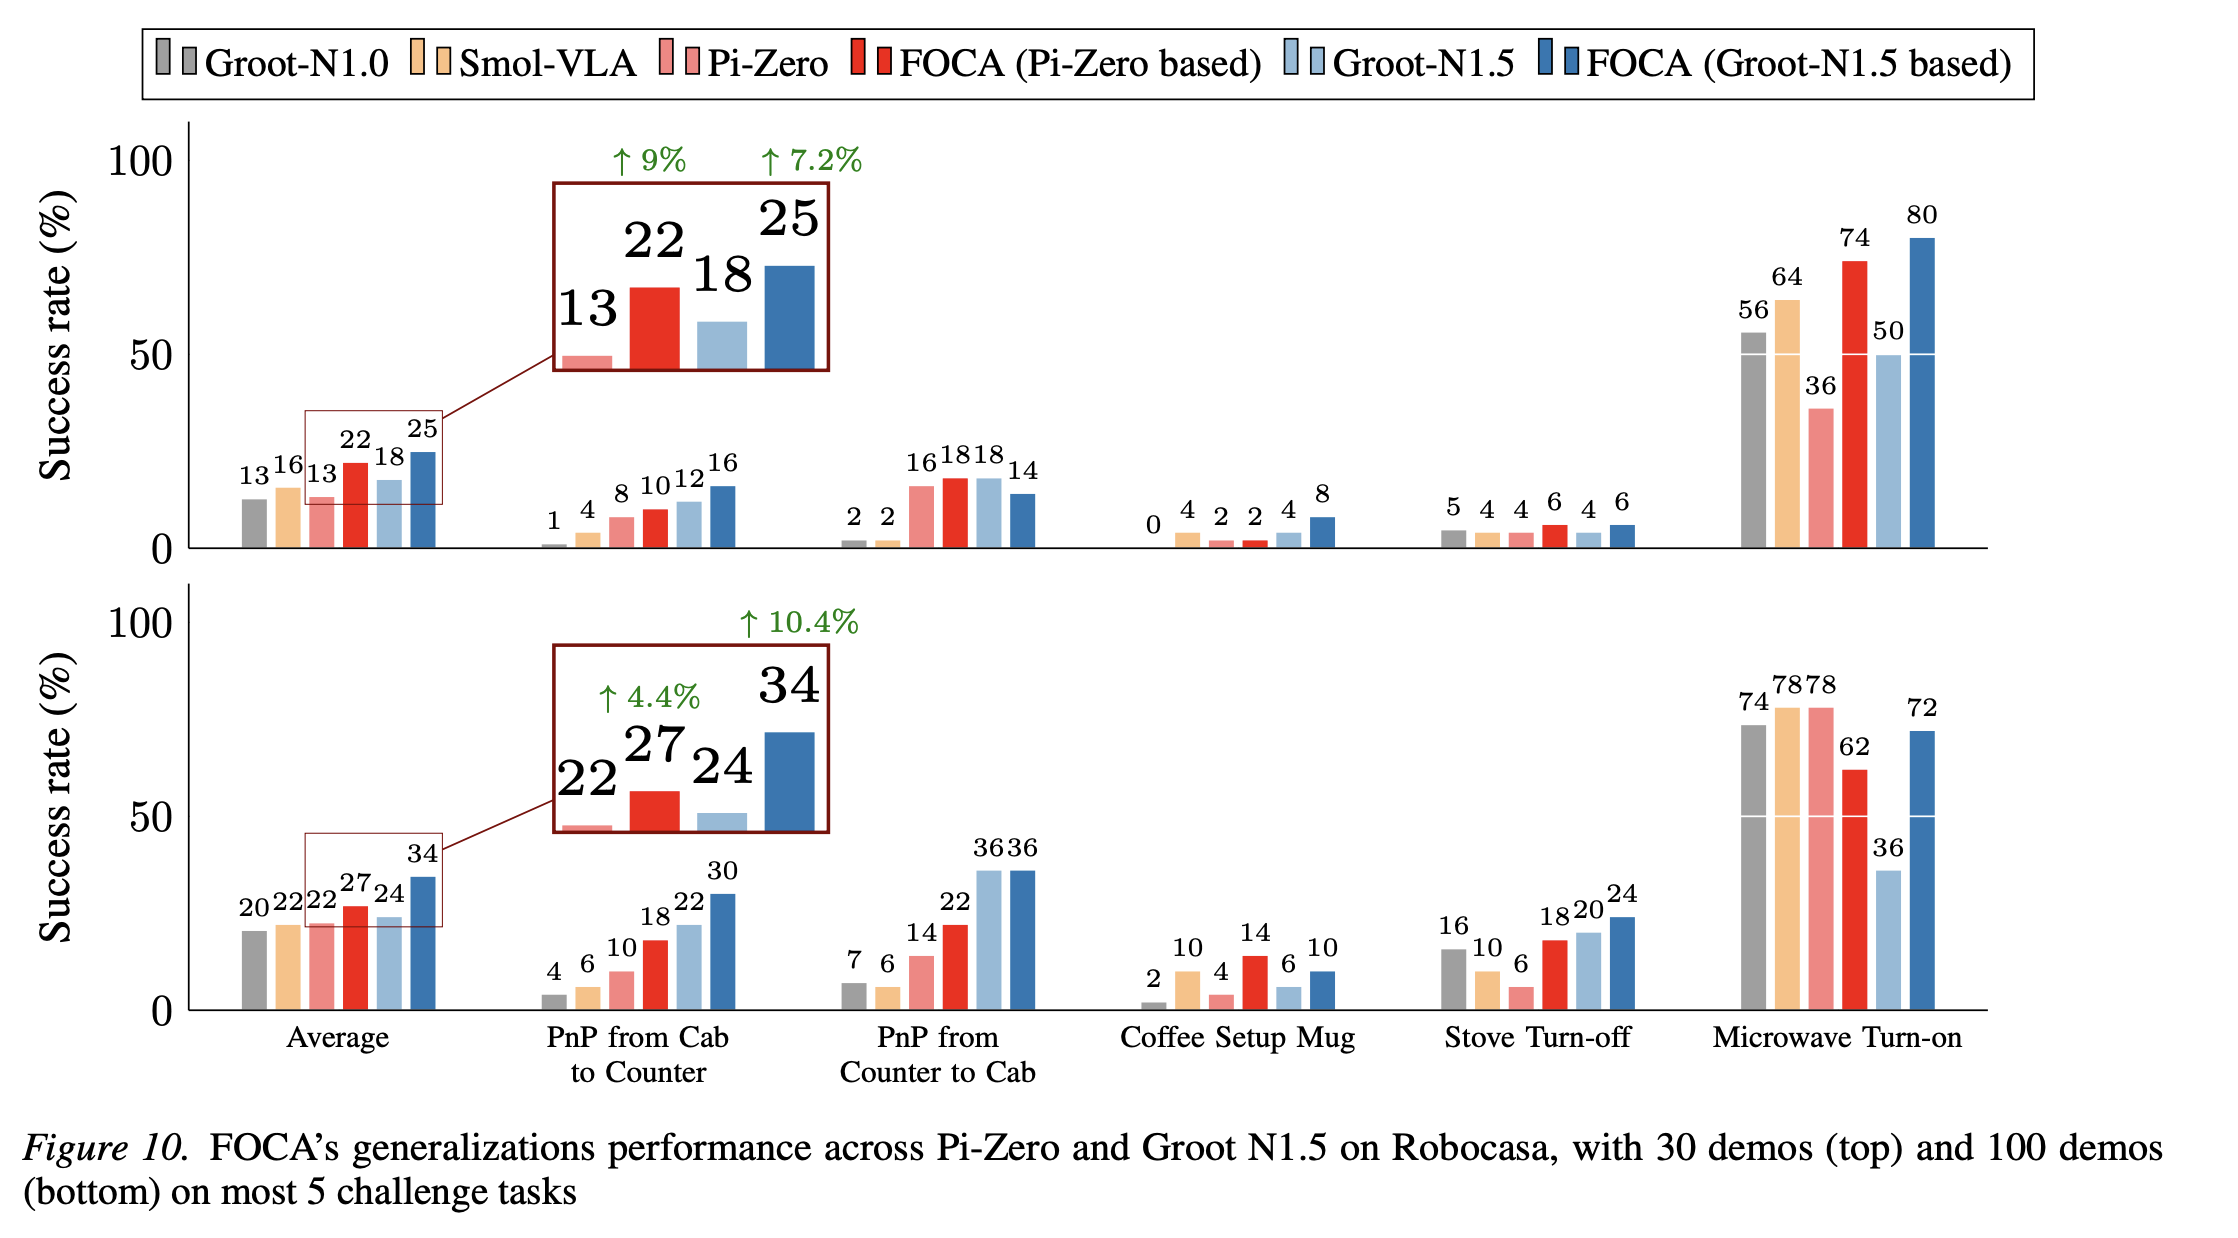
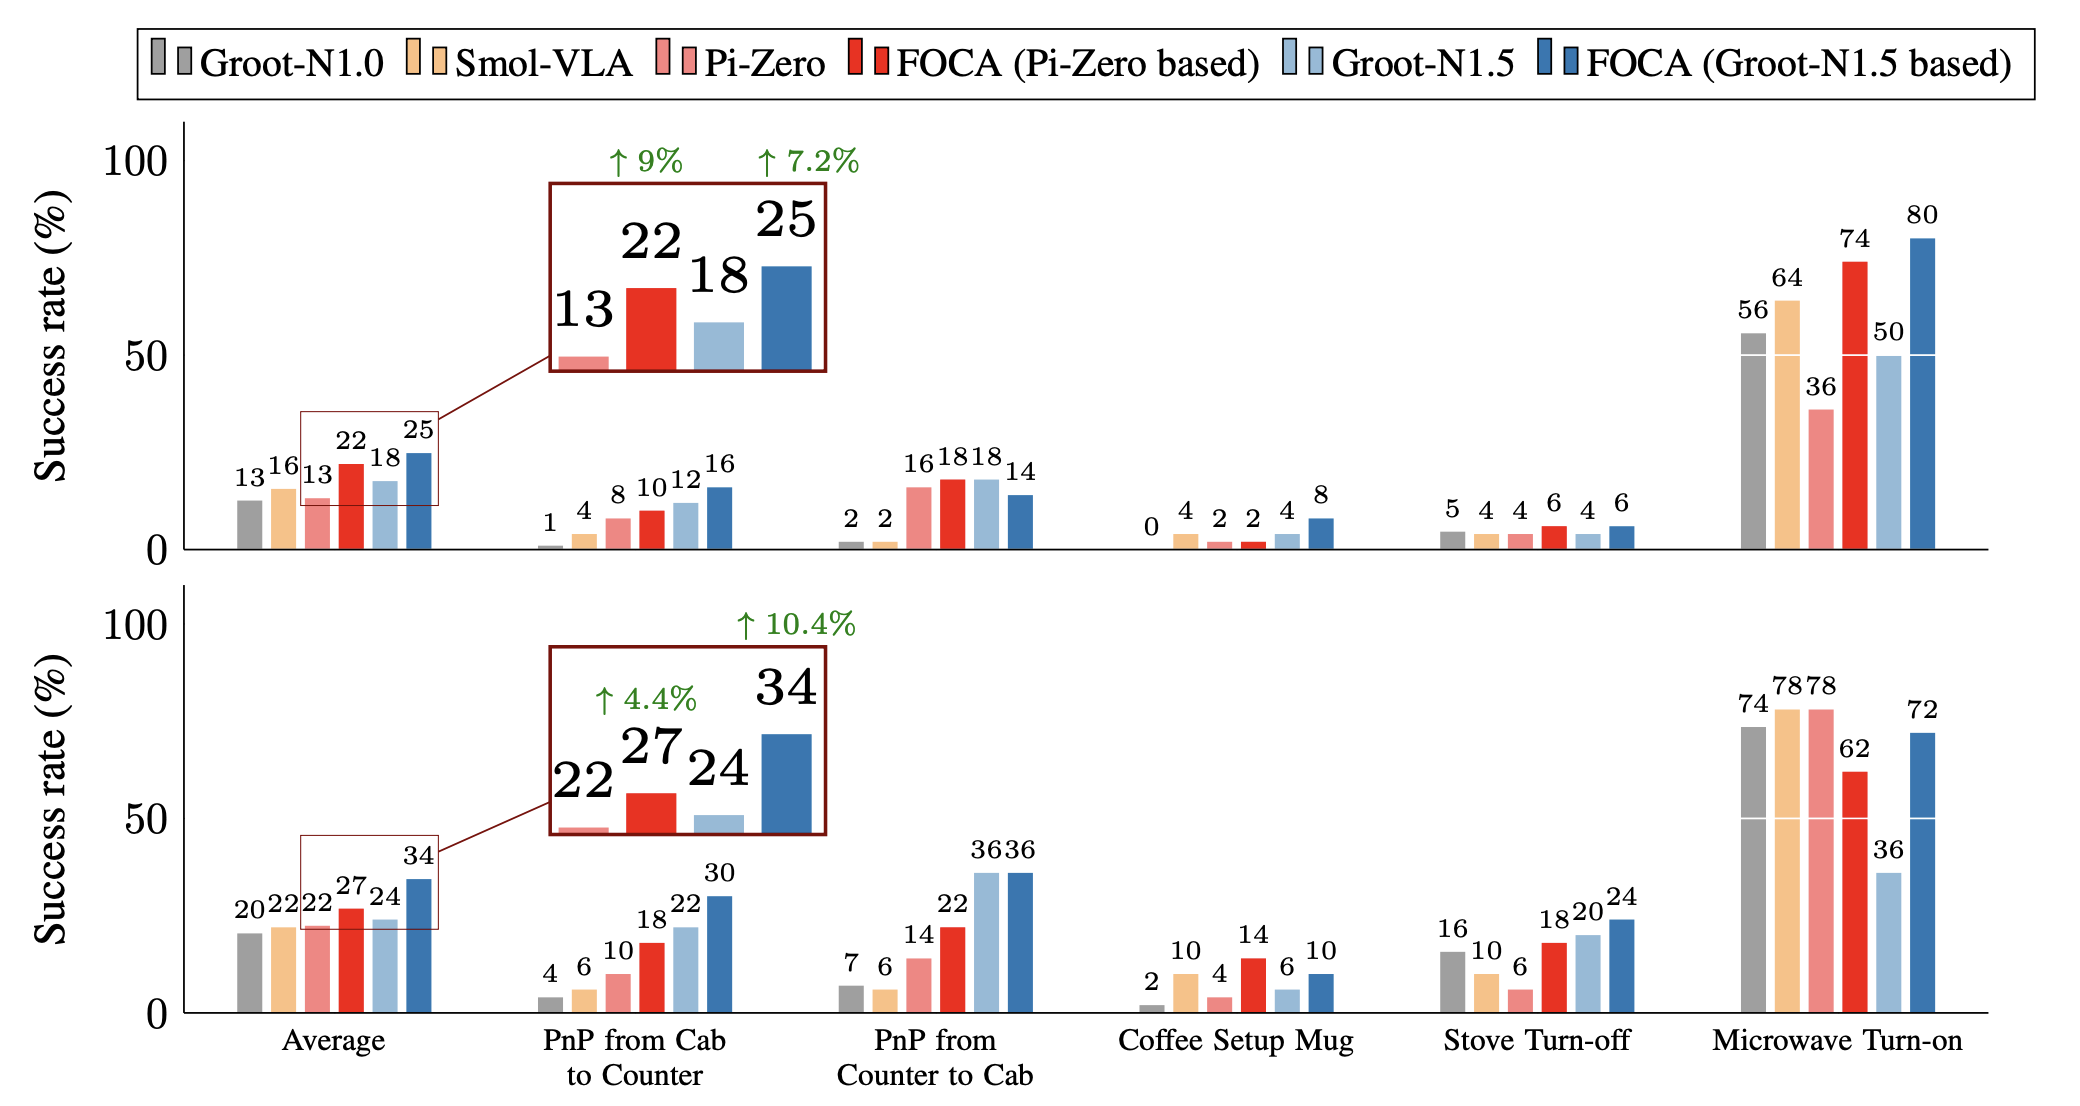
thumbimage and captioning style

diff --git a/index.html b/index.html
@@ -8,6 +8,23 @@
   <meta property="og:title" content="FOCA: Future-Oriented Conditioning for Data-Efficient Vision-Language-Action Adaptation" />
   <meta property="og:description" content="Parameter-efficient adaptation of Vision-Language-Action models using future-oriented conditioning." />
   <meta property="og:type" content="article" />
+  <meta property="og:url" content="https://focavla.github.io/" />
+  <meta property="og:site_name" content="FOCA" />
+  <meta property="og:image" content="https://focavla.github.io/assets/FOCA.png" />
+  <meta property="og:image:secure_url" content="https://focavla.github.io/assets/FOCA.png" />
+  <meta property="og:image:type" content="image/png" />
+  <meta property="og:image:width" content="2472" />
+  <meta property="og:image:height" content="1466" />
+  <meta property="og:image:alt" content="Overview of the FOCA framework for data-efficient Vision-Language-Action adaptation." />
+
+  <!-- Twitter Card -->
+  <meta name="twitter:card" content="summary_large_image" />
+  <meta name="twitter:title" content="FOCA: Future-Oriented Conditioning for Data-Efficient Vision-Language-Action Adaptation" />
+  <meta name="twitter:description" content="Parameter-efficient adaptation of Vision-Language-Action models using future-oriented conditioning." />
+  <meta name="twitter:image" content="https://focavla.github.io/assets/FOCA.png" />
+  <meta name="twitter:image:alt" content="Overview of the FOCA framework for data-efficient Vision-Language-Action adaptation." />
+
+  <link rel="canonical" href="https://focavla.github.io/" />
 
   <!-- Fonts -->
   <link rel="preconnect" href="https://fonts.googleapis.com" />
@@ -244,8 +261,9 @@
     <div class="mx-auto max-w-5xl px-6 pb-16">
       <figure class="overflow-hidden rounded-xl border border-rule/70 bg-card shadow-sm">
         <img src="assets/FOCA.png" alt="Overview of FOCA framework" width="1600" height="900" class="w-full" />
-        <figcaption class="border-t border-rule/70 px-5 py-3 text-xs uppercase tracking-[0.18em] text-muted-foreground">
-          Figure 1 &mdash; Overview of FOCA. Our framework injects future-oriented conditioning into VLA adaptation through explicit future interaction prediction and implicit alignment to future goals, enabling data-efficient learning and action-free co-training with video world models.
+        <figcaption class="border-t border-rule/70 px-5 py-4 text-[15px] leading-relaxed text-foreground/70">
+          <span class="mr-2 text-[11px] font-semibold uppercase tracking-[0.14em] text-accent">Figure 1</span>
+          Overview of FOCA. Our framework injects future-oriented conditioning into VLA adaptation through explicit future interaction prediction and implicit alignment to future goals, enabling data-efficient learning and action-free co-training with video world models.
         </figcaption>
       </figure>
     </div>
@@ -293,8 +311,9 @@
       <video class="w-full rounded-lg" autoplay loop playsinline controls>
         <source src="assets/teaser.mp4" type="video/mp4" />
       </video>
-      <figcaption class="border-t border-rule/70 px-5 py-3 text-xs uppercase tracking-[0.18em] text-muted-foreground">
-        Figure 2 &mdash; Video overview of FOCA. We predict task-grounded future interactions and align them with future goals to enable data-efficient adaptation and action-free learning.
+      <figcaption class="border-t border-rule/70 px-5 py-4 text-[15px] leading-relaxed text-foreground/70">
+        <span class="mr-2 text-[11px] font-semibold uppercase tracking-[0.14em] text-accent">Figure 2</span>
+        Video overview of FOCA. We predict task-grounded future interactions and align them with future goals to enable data-efficient adaptation and action-free learning.
       </figcaption>
     </figure>
 
@@ -756,8 +775,9 @@
     <!-- RoboCasa generalization figure -->
     <figure class="mt-10 overflow-hidden rounded-xl border border-rule/70 bg-card">
       <img src="assets/robocasa_result.png" alt="FOCA generalization performance across Pi-Zero and GR00T N1.5 on RoboCasa" class="w-full" />
-      <figcaption class="border-t border-rule/70 px-5 py-3 text-xs uppercase tracking-[0.18em] text-muted-foreground">
-        Figure 10 &mdash; FOCA's generalization performance across &pi;&#8320; and GR00T N1.5 on RoboCasa, with 30 demos (top) and 100 demos (bottom) on the five most challenging tasks.
+      <figcaption class="border-t border-rule/70 px-5 py-4 text-[15px] leading-relaxed text-foreground/70">
+        <span class="mr-2 text-[11px] font-semibold uppercase tracking-[0.14em] text-accent">Figure 10</span>
+        FOCA's generalization performance across &pi;&#8320; and GR00T N1.5 on RoboCasa, with 30 demos (top) and 100 demos (bottom) on the five most challenging tasks.
       </figcaption>
     </figure>
   </section>
